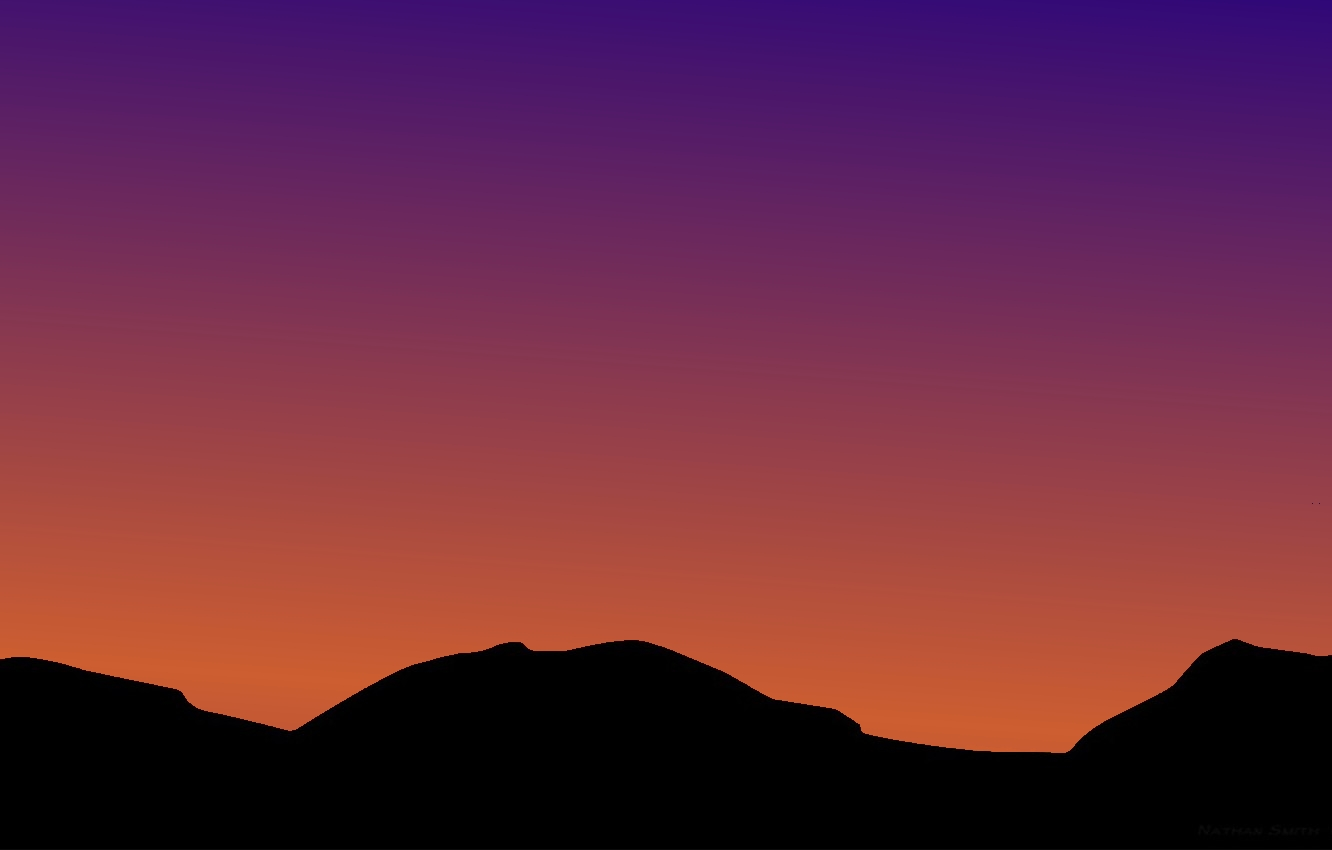
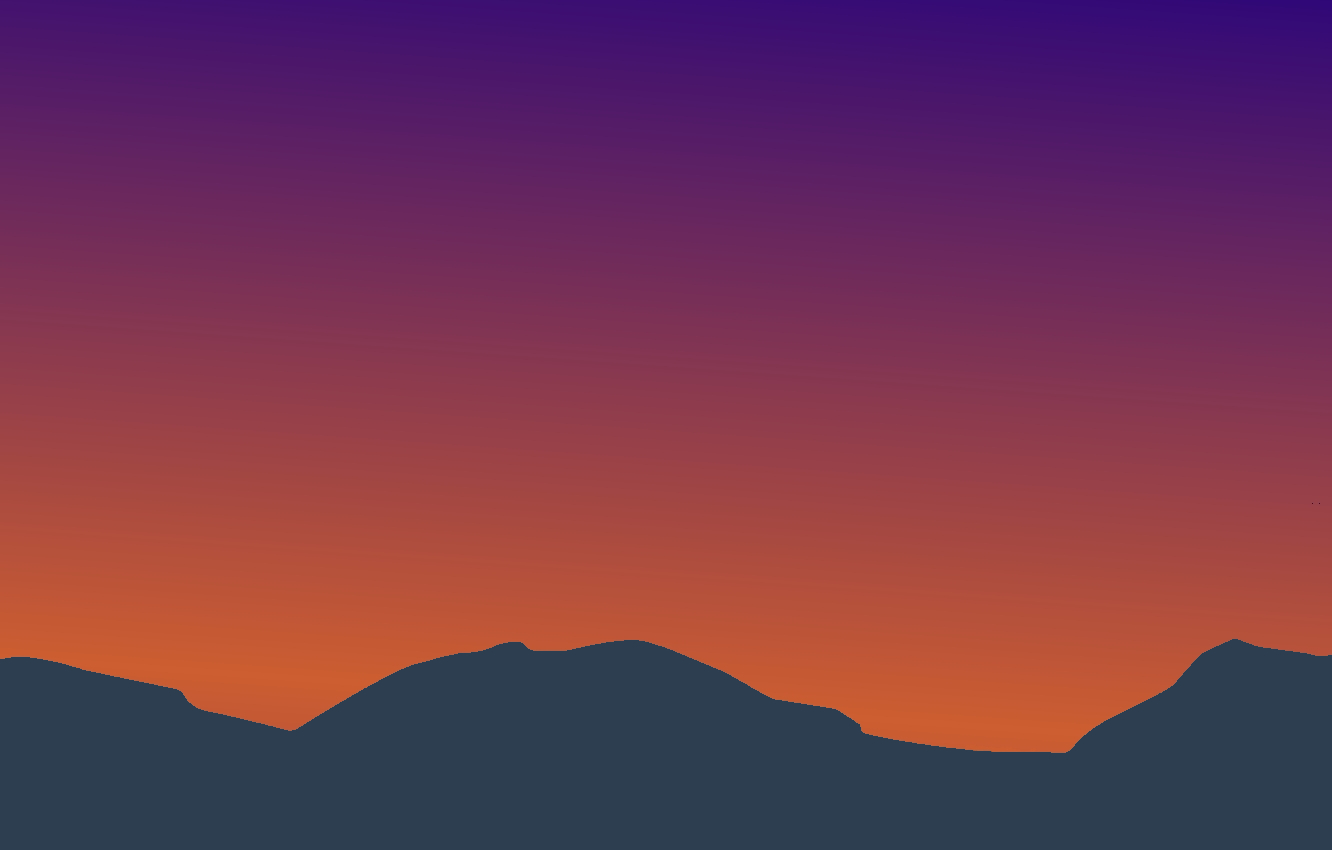
Arreglos menores

Changed region(s): [[0.0, 0.7341, 1.0, 1.0]]

diff --git a/public/main.css b/public/main.css
@@ -11,34 +11,16 @@
 #cabecera
 {
     background-color: #2f3542;
-    border: #bdc3c7 3px solid;
-    border-top: none;
-    border-left: none;
-    border-right: none; 
-    padding-bottom: 1%;
+    padding-bottom: 1.8%;
+    padding-top:.5%;
 }
-#cabecera h1{color: white;padding-top: 1%; font-family: 'Open Sans Condensed', sans-serif; margin-bottom: -.5%; text-align: center;}
-#titleicon
-{
-    height: auto;
-    width: 8%;
-    padding: .5%;
-    float: right;
-}
+#cabecera h1{color: white; font-family: 'Open Sans Condensed', sans-serif; text-align: center;}
+#titleicon{height: auto;width: 8%;padding: .5%;float: right;}
 nav ul,li,div,h3{display: inline;}
-nav img
-{
-    width: clamp(1px,5%,800px);
-    position: relative;
-    bottom: 5%;
+nav{padding-top: 2.5%;} nav a{text-decoration: none;transition: 1s;padding: 1.8%;margin-left:1%;}
+nav a:hover{background-color: #6a89cc3f;}
+nav h3{color:white;font-family: 'Duru Sans', sans-serif;}
 
-}
-nav{padding-top: 2.5%;} nav a{text-decoration: none;}
-nav div:hover
-{
-    background-color: #6a89cc3f; border-color:#82ccdd75;
-}
-nav h3{block-size: 1%; color:white;font-family: 'Duru Sans', sans-serif; width: 100%; margin-top: 1%;margin-left: -.40%;}
 nav div
 {
     border-radius: 5rem;
@@ -84,12 +66,12 @@ nav div
 /*Color del fin de la imágen #000000*/
 
 #info *{color: white; text-align: center;} 
-#info h1{background-color: #000000;}
-#black {background-color: #000000; display: block;}
-.infobox {display: block; border-radius: 1rem; background-color: #2f364086; size: 100%; margin-bottom: 3%; margin-right: 3%;margin-left: 3%;font-family: 'Raleway', sans-serif;}
+#info h1{background-color: #2d3e50;}
+#black {background-color: #2d3e50; display: block;}
+.infobox {display: block; border-radius: 1rem; background-color: #34495e; size: 100%; margin-bottom: 3%; margin-right: 3%;margin-left: 3%;font-family: 'Raleway', sans-serif;}
 #info div p{padding-bottom: 3%;}
 #info div h2 {padding-top: 1.5%;}
-.infobox img {width: clamp(300px,60%,600px); margin-bottom: 2%; border: #b2bec3 solid; border-radius: 2rem;}
+.infobox img {width: clamp(300px,60%,600px); margin-bottom: 3%; border: rgb(63, 91, 117) solid; border-radius: .8rem;}
 #info {background-color: #000000;}
 
 /*----------------------------------------------------------------------------

diff --git a/public/docs.css b/public/docs.css
@@ -19,6 +19,8 @@ body{background-color: #2c3e50;}
     color:white;
     font-family: 'Fira Sans', sans-serif;
 }
+
+.card::after{content:".";color:transparent;}
 .card h1{
     padding-top: 1%;
     padding-bottom: 1%;
@@ -34,16 +36,14 @@ h2[t1]::before{content: "Función";}
 h2[t2]::before{content: "Uso";}
 h2[t3]::before{content: "Alias";}
 
-.card p{margin-left: 5%;margin-right: 5%;margin-bottom: 1%;font-family: 'Encode Sans Semi Expanded', sans-serif;}
+.card p{margin-left: 5%;margin-right: 5%;margin-bottom: 1%;font-family: 'Encode Sans Semi Expanded', sans-serif;}   
 
 p[code]
 {
     background-color: rgb(63, 91, 117);
-    margin-left: 5%;margin-right: 5%;
     color: white;
     border-radius: 1rem;    
     padding: 15px;
-    margin-top: 1%;
 }
 
 h1[subsect]{color:white;margin-left: 5%;margin-top: 10%;font-family: 'Encode Sans Semi Expanded', sans-serif;}
